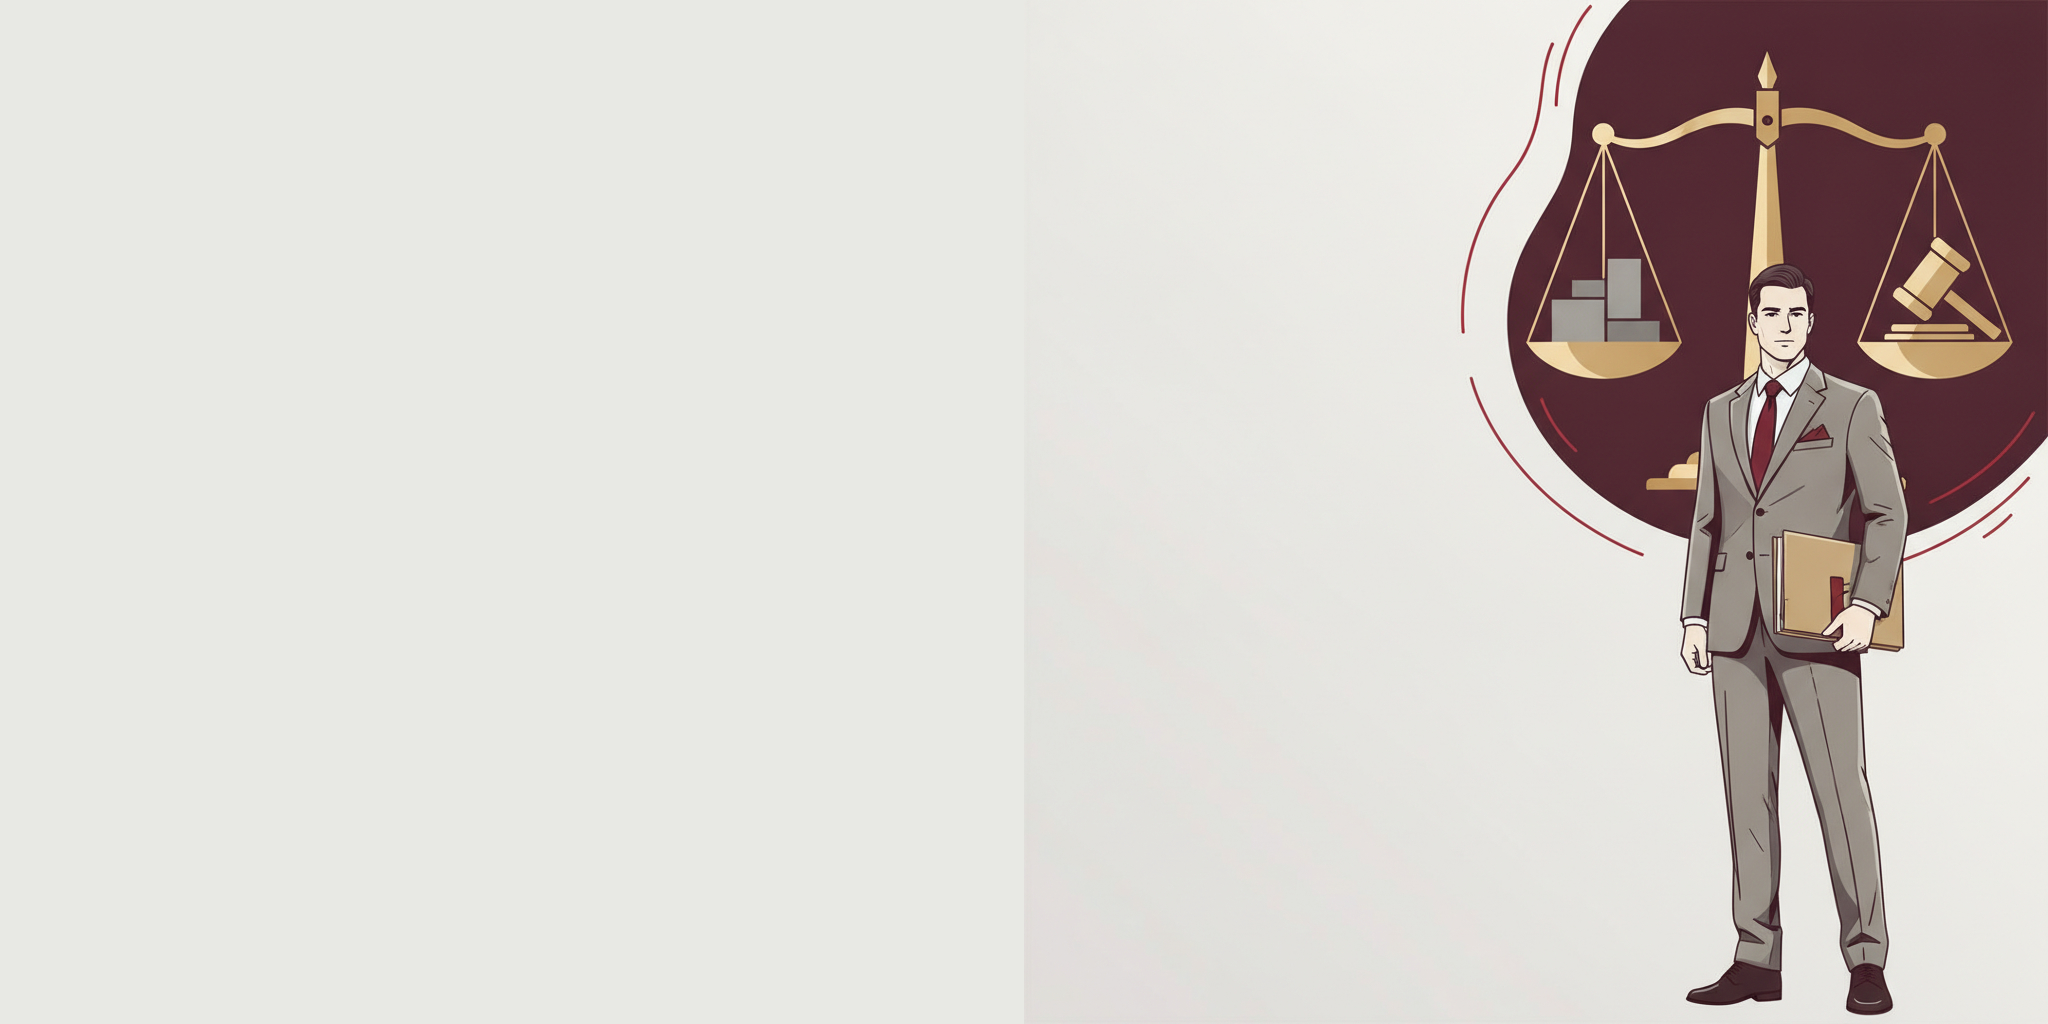
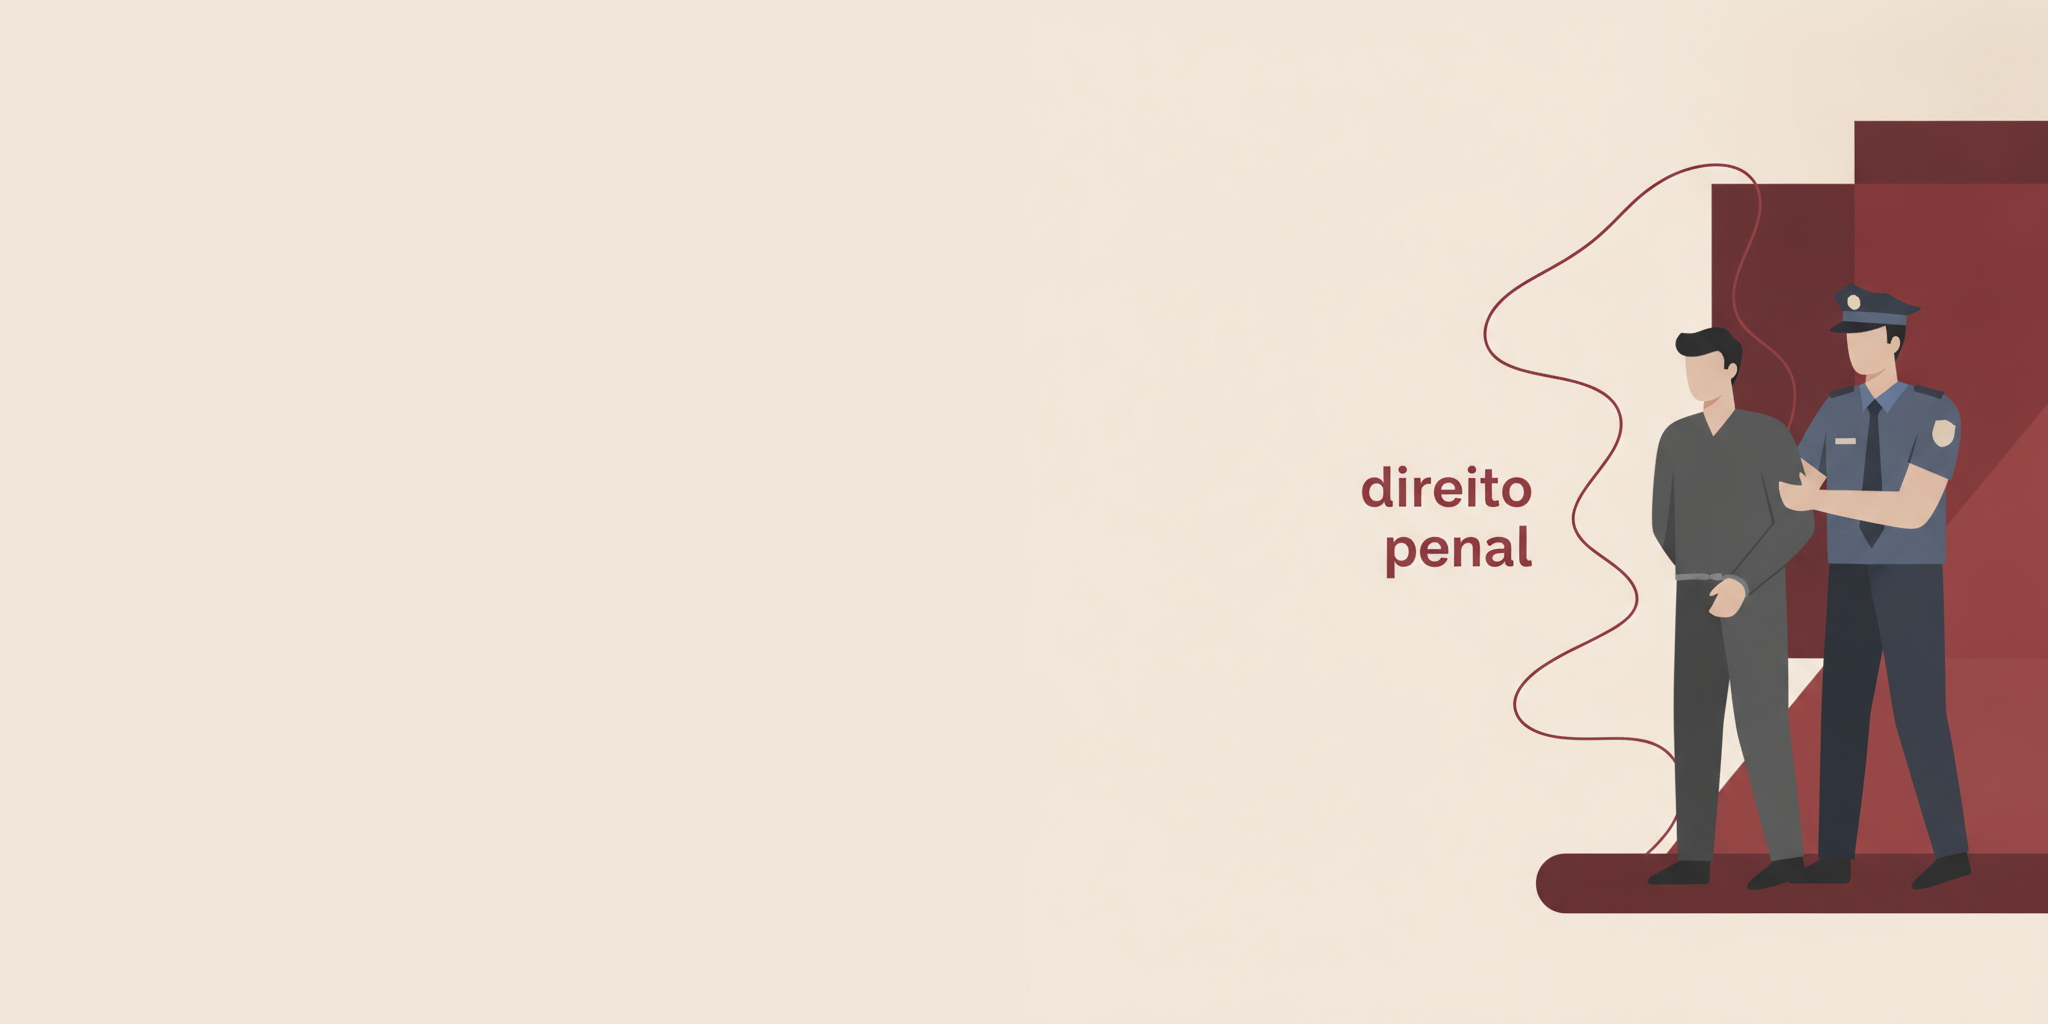
fix(ui): refaz capa do CP para cena de prisão e corrige fundo animado da lei para ficar idêntico ao da home

Changed region(s): [[0.6562, 0.0, 1.0, 1.0], [0.75, 0.625, 0.7812, 0.6562]]

diff --git a/src/pages/CategoriaLegislacao.tsx b/src/pages/CategoriaLegislacao.tsx
@@ -2252,7 +2252,7 @@ const CategoriaLegislacao = () => {
                       background: `linear-gradient(135deg, ${baseColor} 0%, ${shade(baseColor, -0.2)} 55%, ${shade(baseColor, -0.4)} 100%)`,
                     }}
                   />
-                  <div className="absolute inset-0 pointer-events-none z-0 mix-blend-overlay opacity-60">
+                  <div className="absolute inset-0 pointer-events-none z-0">
                     <ShapeGrid 
                       speed={0.5} 
                       squareSize={40}
